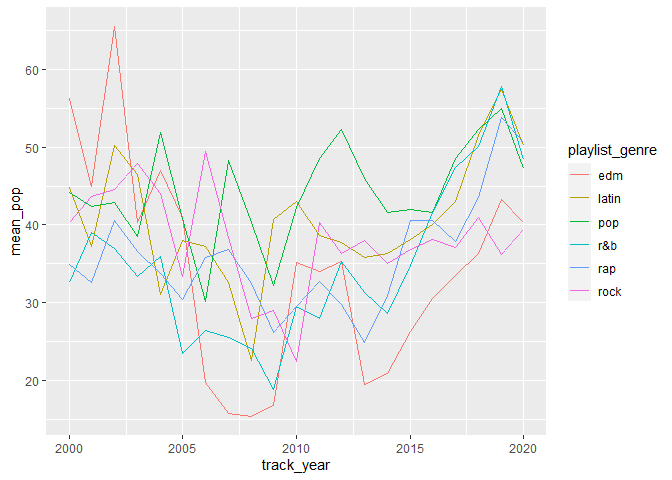
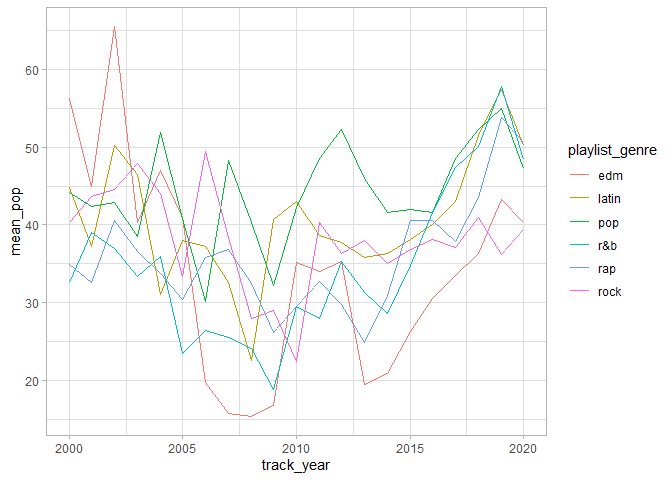
fix typos

diff --git a/exploring-tt/README.md b/exploring-tt/README.md
@@ -21,6 +21,8 @@ library(ggpomological)
 library(extrafont)
 
 spotify_songs <- readr::read_csv('https://raw.githubusercontent.com/rfordatascience/tidytuesday/master/data/2020/2020-01-21/spotify_songs.csv')
+
+theme_set(theme_light())
 ```
 
 ### Exploration
@@ -35,8 +37,7 @@ by_duration <- spotify_songs %>%
     ungroup()
 
 ggplot(by_duration, aes(x = year, y= mean_, fill = playlist_genre, color = playlist_genre, group = playlist_genre))+
-    geom_line()+
-    theme_light()
+    geom_line()
 ```
 
 <img src="README_files/figure-gfm/unnamed-chunk-2-1.png" style="display: block; margin: auto;" />
@@ -50,8 +51,7 @@ spotify_songs %>%
   summarise_at(vars(danceability),list(mean_ = mean, sd_ = sd)) %>% 
   ungroup() %>% 
   ggplot(aes(x = year, y= mean_, fill = playlist_genre, color = playlist_genre, group = playlist_genre))+
-  geom_line()+
-  theme_light()
+  geom_line()
 ```
 
 <img src="README_files/figure-gfm/unnamed-chunk-3-1.png" style="display: block; margin: auto;" />
@@ -179,9 +179,7 @@ by_artist_mean <- by_artist %>%
 
 ggplot(by_artist, aes(y = track_artist, x = track_popularity))+
   geom_point()+
-  geom_point(data = by_artist_mean, aes(y = track_artist, x = popularity), color = "red")+
-    theme(
-      panel.background = element_blank())
+  geom_point(data = by_artist_mean, aes(y = track_artist, x = popularity), color = "red")
 ```
 
 <img src="README_files/figure-gfm/unnamed-chunk-8-1.png" style="display: block; margin: auto;" />
